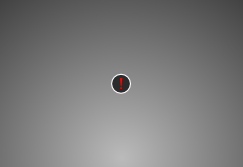
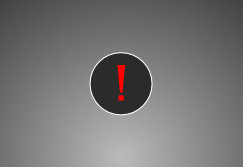
Alternative Visage design

Changed region(s): [[0.3457, 0.2994, 0.6337, 0.7186]]

diff --git a/res-alternative/visage.css b/res-alternative/visage.css
@@ -73,26 +73,28 @@
 }
 
 #visage-nav-prev {
+	position: fixed;
 	z-index: 300030;
-	left: 50%;
-	top: 100%;
-	height: 20px;
-	width: 20px;
-	margin-top: -10px;
-	margin-left: -25px;
+	left: 0px;
+	top: 50%;
+	height: 100px;
+	width: 50px;
+	margin-top: -50px;
+	margin-left: -2px;
 	background: transparent url("prev.png") no-repeat scroll center left;
 	cursor: pointer;
 }
 
 #visage-nav-next {
+	position: fixed;
 	z-index: 300030;
-	left: 50%;
-	top: 100%;
-	height: 20px;
-	width: 20px;
-	margin-top: -10px;
-	margin-left: 5px;
-	background: transparent url("next.png") no-repeat scroll center right;
+	right: 0px;
+	top: 50%;
+	height: 100px;
+	width: 50px;
+	margin-top: -50px;
+	margin-right: -2px;
+	background: transparent url("next.png") no-repeat scroll center left;
 	cursor: pointer;
 }
 
@@ -100,18 +102,19 @@
 	z-index: 300005;
 	right: 0%;
 	top: 0%;
-	height: 20px;
-	width: 20px;
-	margin-top: 10px;
-	margin-right: 10px;
+	height: 62px;
+	width: 62px;
+	margin-top: -2px;
+	margin-right: -2px;
 	background: transparent url("close.png") no-repeat scroll top right;
 	cursor: pointer;
 }
 
 #visage-count {
+	position: fixed;
 	z-index: 300015;
-	left: 0%;
-	bottom: 100%;
+	left: 1em;
+	top: 0.3em;
 	padding: 4px 0px;
 	color: #bbbbbb;
 	font-size: 10px;
@@ -119,9 +122,12 @@
 }
 
 #visage-title {
+	position: fixed;
 	z-index: 300020;
-	right: 0%;
-	bottom: 100%;
+	text-align: center;
+	width: 100%;
+	left: 0;
+	top: 0.3em;
 	padding: 4px 0px;
 	color: white;
 	font-size: 12px;
